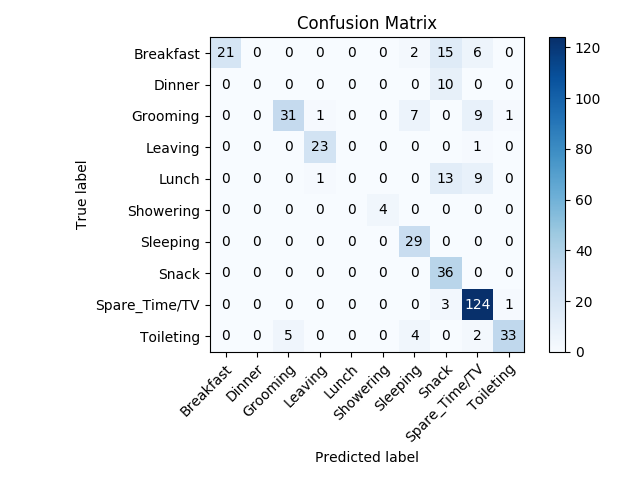
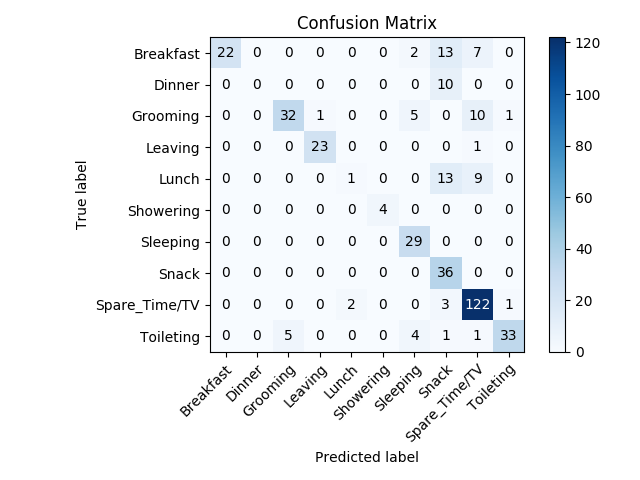
change predict to predict probe

diff --git a/Code/ModelRating.py b/Code/ModelRating.py
@@ -133,32 +133,35 @@ def printInformation(initialPro, transictionMatrix, observationsMatrix, actionOb
 
 def modelRating(model, actionObserved, correctActivity, matrixSize, targetActivityName):
 
-    posteriors = model.predict(actionObserved.T)
+    posteriors = model.predict_proba(actionObserved.T)
     # print("ACTIVITY FROM OBSERVATION VALUE: ", posteriors)
+    postery = list()
 
     confusionMatrix = np.zeros((matrixSize, matrixSize))
 
-    # plotConfusionMatrix(correctActivity[0], posteriors, targetActivityName, False, "Confusion Matrix")
-
     cont = 0
     for activity in range(0, len(correctActivity[0])):
-        if posteriors[activity] != correctActivity[0][activity]:
+        decision = np.where(posteriors[activity] == np.amax(posteriors[activity]))
+        if decision[0] != correctActivity[0][activity]:
             # print(activity)
             # print(posteriors[activity])
             # print(correctActivity[0][activity])
             cont += 1
             # print("")
-        confusionMatrix[correctActivity[0][activity]][posteriors[activity]] += 1
+        postery.append(decision[0])
+        confusionMatrix[correctActivity[0][activity]][decision[0]] += 1
+
+    # plotConfusionMatrix(correctActivity[0], postery, targetActivityName, False, "Confusion Matrix")
 
     print("CONFUSION MATRIX")
     print(confusionMatrix)
     print("WRONG INFERENCE: " + str(cont) + ' ON: ' + str(len(correctActivity[0])) + ' ACTIVITIES')
 
 
-    print(classification_report(correctActivity[0], posteriors, target_names=targetActivityName))
+    print(classification_report(correctActivity[0], postery, target_names=targetActivityName))
     print("")
     print("ACCURACY SCORE:", end = " ")
-    print(accuracy_score(correctActivity[0], posteriors))
+    print(accuracy_score(correctActivity[0], postery))
 
 
 # [0: 'Breakfast', 1: 'Grooming', 2: 'Leaving', 3: 'Lunch', 4: 'Showering',
